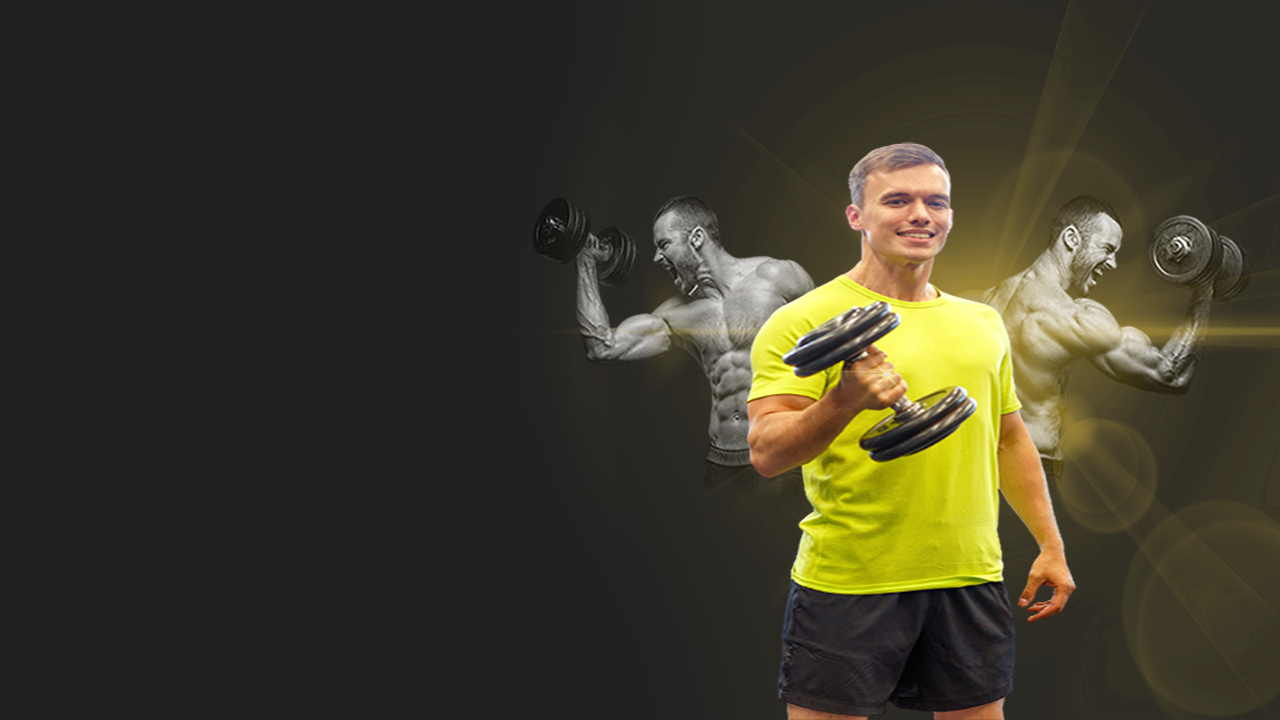
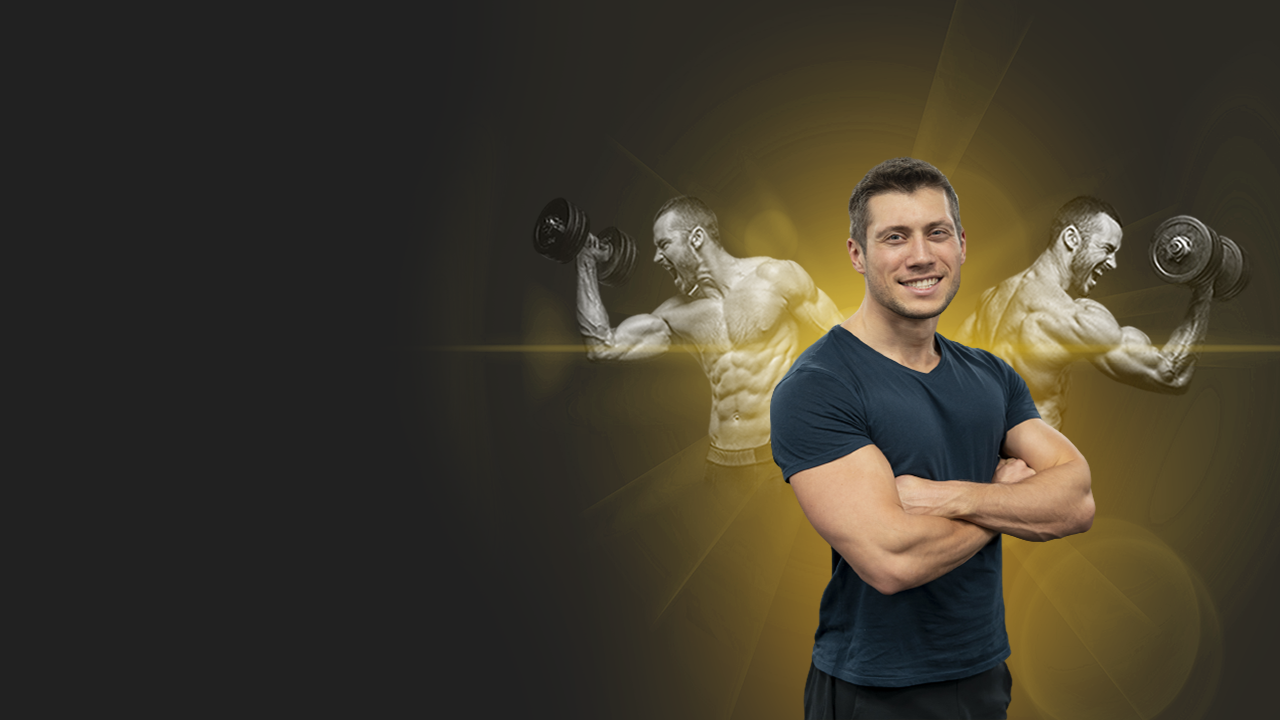
section 3 completed

Changed region(s): [[0.375, 0.0917, 1.0, 1.0], [0.9688, 0.7333, 1.0, 0.7639], [0.875, 0.275, 0.9062, 0.3056]]

diff --git a/styles.css b/styles.css
@@ -110,22 +110,22 @@ section {
     /* width: 50%; */
 }
 
-.who-for-column .who-for-box h2 {
+.who-for-column .who-for-box h2, .follow-up-box h2 {
     font-weight: bold;
     font-size: 3rem;
     text-transform: uppercase;
 }
 
-.who-for-column .who-for-box p {
+.who-for-column .who-for-box p, .follow-up-box p {
     font-size: 1.7rem;
 }
 
-.who-for-column .who-for-box .detail-item {
+.who-for-column .who-for-box .detail-item, .follow-up-box .detail-item {
     display: flex;
     gap: 2rem;
 }
 
-.who-for-column .who-for-box .detail-item i {
+.who-for-column .who-for-box .detail-item i, .follow-up-box i {
     font-size: 30px;
     font-weight: bold;
     color: var(--primary);
@@ -212,6 +212,65 @@ hr {
     right: -15px;
     bottom: -20px;
     background: var(--bg-color);
+    transform: rotate(40deg);
+}
+
+/* como funciona o acompanhamento */
+
+.follow-up {
+    background: var(--second-bg-color);
+}
+
+.follow-up .follow-up-row {
+    display: flex;
+    flex-wrap: wrap;
+    justify-content: space-around;
+    gap: 7rem;
+}
+
+.follow-up-column .follow-up-box {
+    display: flex;
+    justify-content: center;
+    flex-direction: column;
+    gap: 3rem;
+}
+
+.follow-up-column:nth-child(1) {
+    max-width: 500px;
+}
+
+.follow-up-column:nth-child(2) {
+    height: 500px;
+    position: relative;
+    border: 6px solid var(--primary-light);
+    
+}
+
+.follow-up-column:nth-child(2) img {
+    width: 100%;
+    height: 100%;
+}
+
+.follow-up-column:nth-child(2)::after {
+    content: '';
+    position: absolute;
+    width: 40px;
+    height: 70px;
+    left: -20px;
+    top: -27px;
+    background: var(--second-bg-color);
+    transform: rotate(40deg);
+    z-index: 1;
+}
+
+.follow-up-column:nth-child(2)::before {
+    content: '';
+    position: absolute;
+    width: 40px;
+    height: 70px;
+    right: -20px;
+    bottom: -28px;
+    background: var(--second-bg-color);
     transform: rotate(40deg);
 }
 

diff --git a/index.html b/index.html
@@ -82,5 +82,40 @@
             </div>
         </div>        
     </section>
+
+    <section class="follow-up" id="follow-up">
+        <div class="follow-up-row">
+            <div class="follow-up-column">
+                <div class="follow-up-box">
+                    <h2>Como funciona o atendimento?</h2>
+                    <div class="detail-item">
+                        <i class="bi bi-check-square"></i>
+                        <p>Já tentou fazer dieta, mas nunca conseguiu seguir por muito tempo</p>
+                    </div>
+                    <div class="detail-item">
+                        <i class="bi bi-check-square"></i>
+                        <p>Mulheres e homens que estão dispostos a se dedicar ao máximo para obter excelentes resultados</p>
+                    </div>
+                    <div class="detail-item">
+                        <i class="bi bi-check-square"></i>
+                        <p>Já está cansado de gastar com suplementação, procedimentos e estratégias que não funcionam</p>
+                    </div>
+                    <div class="detail-item">
+                        <i class="bi bi-check-square"></i>
+                        <p>Busca saúde, qualidade de vida, bem-estar e reeducação alimentar</p>
+                    </div>
+                    <div class="btn-box">
+                        <button class="default-button">
+                            <a href="#" target="_blank">quero começar agora</a>
+                        </button>
+                        <span class="animate" style="--i: 5;"></span>
+                    </div>
+                </div>
+            </div>
+            <div class="follow-up-column">
+                <img src="./assets/young-adult-doing-indoor-sport-gym.jpg" alt="personal">
+            </div>
+        </div>
+    </section>
 </body>
 </html>
